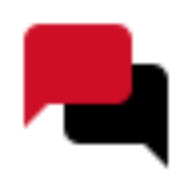
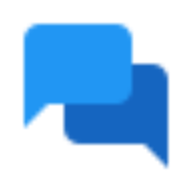
optimized for different screens

diff --git a/src/Elements/Chat.js b/src/Elements/Chat.js
@@ -9,8 +9,8 @@ const PageLink = ({ link, summary }) => {
       variant="outlined"
       style={{
         marginTop: "10px",
-        backgroundColor: "black",
-        color: "white",
+        backgroundColor: "#f4f4f4",
+        color: "black",
         // borderRadius: "20px",
         marginRight: "10px",
         width: "45%",
@@ -33,7 +33,7 @@ const PageLink = ({ link, summary }) => {
           display="block"
           style={{ marginTop: "10px", position: "absolute", bottom: "10px" }}
         >
-          <LaunchIcon style={{ color: "#cd0e26" }} />
+          <LaunchIcon style={{ color: "#d54407" }} />
         </Link>
       </CardContent>
     </Card>
@@ -64,7 +64,7 @@ const LinkRenderer = ({ links }) => {
           );
         })}
       </div>
-      <Divider style={{ backgroundColor: "#000", margin: "10px 0" }} />{" "}
+      <Divider style={{ backgroundColor: "#f4f4f4", marginTop: "10px" }} />{" "}
     </div>
   ) : null;
 };
@@ -116,7 +116,14 @@ const Chat = () => {
   return (
     <div
       style={{
-        width: `${65}%`,
+        // if the device is mobile, set the width to 100%
+        // if the device is not mobile, set the width to 65% if the device is a monitor, or 85% if the device is a laptop
+        width:
+          window.innerWidth < 600
+            ? "100%"
+            : window.innerWidth < "2000"
+            ? "80%"
+            : "65%",
         display: "flex",
         flex: 1,
         flexDirection: "column",
@@ -139,8 +146,8 @@ const Chat = () => {
               style={{
                 display: "flex",
                 maxWidth: "75%",
-                marginTop: 35,
-                marginBottom: 55,
+                marginTop: "1vh",
+                marginBottom: "2vh",
                 padding: 0,
                 paddingLeft: 20,
                 paddingRight: 20,
@@ -148,8 +155,8 @@ const Chat = () => {
                 alignSelf:
                   message.source === "user" ? "flex-end" : "flex-start",
                 backgroundColor:
-                  message.source === "user" ? "black" : "#c7cacc",
-                color: message.source === "user" ? "white" : "black",
+                  message.source === "user" ? "#2e2e34" : "#0066cc",
+                color: message.source === "user" ? "white" : "#f4f4f4",
                 flexDirection: "column",
               }}
             >
@@ -165,14 +172,14 @@ const Chat = () => {
           style={{
             display: "flex",
             maxWidth: "75%",
-            marginTop: 35,
-            marginBottom: 55,
+            marginTop: "1vh",
+            marginBottom: "2vh",
             padding: 0,
             paddingLeft: 20,
             paddingRight: 20,
             // backgroundColor: "#0066cc", milken blue
-            backgroundColor: "#c7cacc",
-            color: "black",
+            backgroundColor: "#0066cc",
+            color: "#f4f4f4",
             borderRadius: 20,
             flexDirection: "column",
           }}

diff --git a/src/Elements/Chatbox.js b/src/Elements/Chatbox.js
@@ -1,8 +1,6 @@
 import { TextField, Button, Box } from "@mui/material";
 import React, { useState, useEffect } from "react";
 import { styled } from "@mui/system";
-
-// import "./Chatbox.css";
 import useSocket from "../useSocket";
 
 // Theme
@@ -23,7 +21,8 @@ const CustomTextField = styled(TextField)({
 const Chatbox = ({ userMessaged, setOutputMessage, setSources }) => {
   // const serverUrl = "http://127.0.0.1:5001";
   // const socket = useSocket("https://206.189.199.72:8001");
-  const socket = useSocket("https://visionproje.com");
+  // const socket = useSocket("https://visionproje.com");
+  const socket = useSocket("http://10.0.0.134:8000");
 
   const [message, setMessage] = useState("");
   // const [outputMessage, setOutputMessage] = useState("");
@@ -73,7 +72,8 @@ const Chatbox = ({ userMessaged, setOutputMessage, setSources }) => {
 
     // make api call to get current sources
     const response = await fetch(
-      `https://visionproje.com/search/${encodeURIComponent(message)}`
+      // `https://visionproje.com/search/${encodeURIComponent(message)}`
+      `http://10.0.0.134:8000/search/${encodeURIComponent(message)}`
     );
 
     const data = await response.json();
@@ -88,17 +88,13 @@ const Chatbox = ({ userMessaged, setOutputMessage, setSources }) => {
   };
 
   return (
-    <div style={{ paddingBottom: 50, backgroundColor: "white" }}>
-      <p
-        style={{
-          width: "100%",
-          alignItems: "center",
-          justifyContent: "center",
-        }}
-      >
-        This Chatbot is in beta stage development. Please consider reading the
-        provided sources to confirm the accuracy of the response.{" "}
-      </p>
+    <div
+      style={{
+        // paddingBottom: "0vh",
+        backgroundColor: "white",
+      }}
+    >
+      {/* center the text */}
       <form onSubmit={handleSendStream}>
         <Box display="flex" color={"black"}>
           <CustomTextField
@@ -118,13 +114,16 @@ const Chatbox = ({ userMessaged, setOutputMessage, setSources }) => {
           <Button
             variant="contained"
             type="submit"
-            style={{ backgroundColor: "#cd0e26" }}
+            style={{ backgroundColor: "#d54407" }}
           >
             Send
           </Button>
         </Box>
       </form>
-      {/* <p>{outputMessage}</p> */}
+      <p style={{ textAlign: "center", margin: "0px", paddingBottom: "1vh" }}>
+        This Chatbot is in beta stage development and has access to a limited
+        amount of information.{" "}
+      </p>
     </div>
   );
 };

diff --git a/src/Elements/Header.js b/src/Elements/Header.js
@@ -1,10 +1,11 @@
 import React from "react";
 import { AppBar, Toolbar, Typography } from "@mui/material";
-import logo from "../assets/the-economic-club.png";
+import logo from "../assets/milken_logo.png";
 
 const Header = () => {
   return (
-    <AppBar position="static" style={{ backgroundColor: "#e9ecef" }}>
+    <AppBar position="static" style={{ backgroundColor: "#ffffff" }}>
+      {/* #e9ecef */}
       <Toolbar>
         <div
           style={{
@@ -15,12 +16,20 @@ const Header = () => {
           }}
         >
           <a
-            href="https://economicclub.org"
+            href="https://milkeninstitute.org/"
             target="_blank"
             rel="noopener noreferrer"
+            style={{ position: "absolute", left: "12px", top: "4px" }}
           >
-            <img src={logo} alt="logo" style={{ margin: "20px" }} />
+            <img src={logo} alt="logo" style={{ height: "56px" }} />
           </a>
+          <Typography
+            variant="h6"
+            component="div"
+            style={{ color: "#2e2e34", fontWeight: "normal" }}
+          >
+            Milken Institute Chat by GN-Works
+          </Typography>
         </div>
       </Toolbar>
     </AppBar>

diff --git a/public/index.html b/public/index.html
@@ -7,7 +7,7 @@
     <meta name="theme-color" content="#000000" />
     <meta
       name="description"
-      content="Chatbot for the website of the Economic Club of Washington DC"
+      content="Chatbot for the website of the Milken Institute"
     />
     <link rel="apple-touch-icon" href="%PUBLIC_URL%/android-chrome-192x192.png" />
     <!--
@@ -24,7 +24,7 @@
       work correctly both with client-side routing and a non-root public URL.
       Learn how to configure a non-root public URL by running `npm run build`.
     -->
-    <title>Economic Club Chat</title>
+    <title>Milken Institute Chat</title>
   </head>
   <body>
     <noscript>You need to enable JavaScript to run this app.</noscript>

diff --git a/src/App.css b/src/App.css
@@ -4,7 +4,7 @@
   align-items: center;
   justify-content: flex-start;
   height: 100vh;
-  background-color: 'biege';
+  background-color: 'black';
 }
 
 .content {
@@ -15,6 +15,7 @@
   width: 100%;
   align-items: center;
   margin-top: -160px; /* Adjust as needed */
+  /* background-color: #000; */
 }
 
 /* other styles remain the same */

diff --git a/src/setupTests.js b/src/setupTests.js
@@ -2,4 +2,4 @@
 // allows you to do things like:
 // expect(element).toHaveTextContent(/react/i)
 // learn more: https://github.com/testing-library/jest-dom
-import '@testing-library/jest-dom';
+import "@testing-library/jest-dom";
